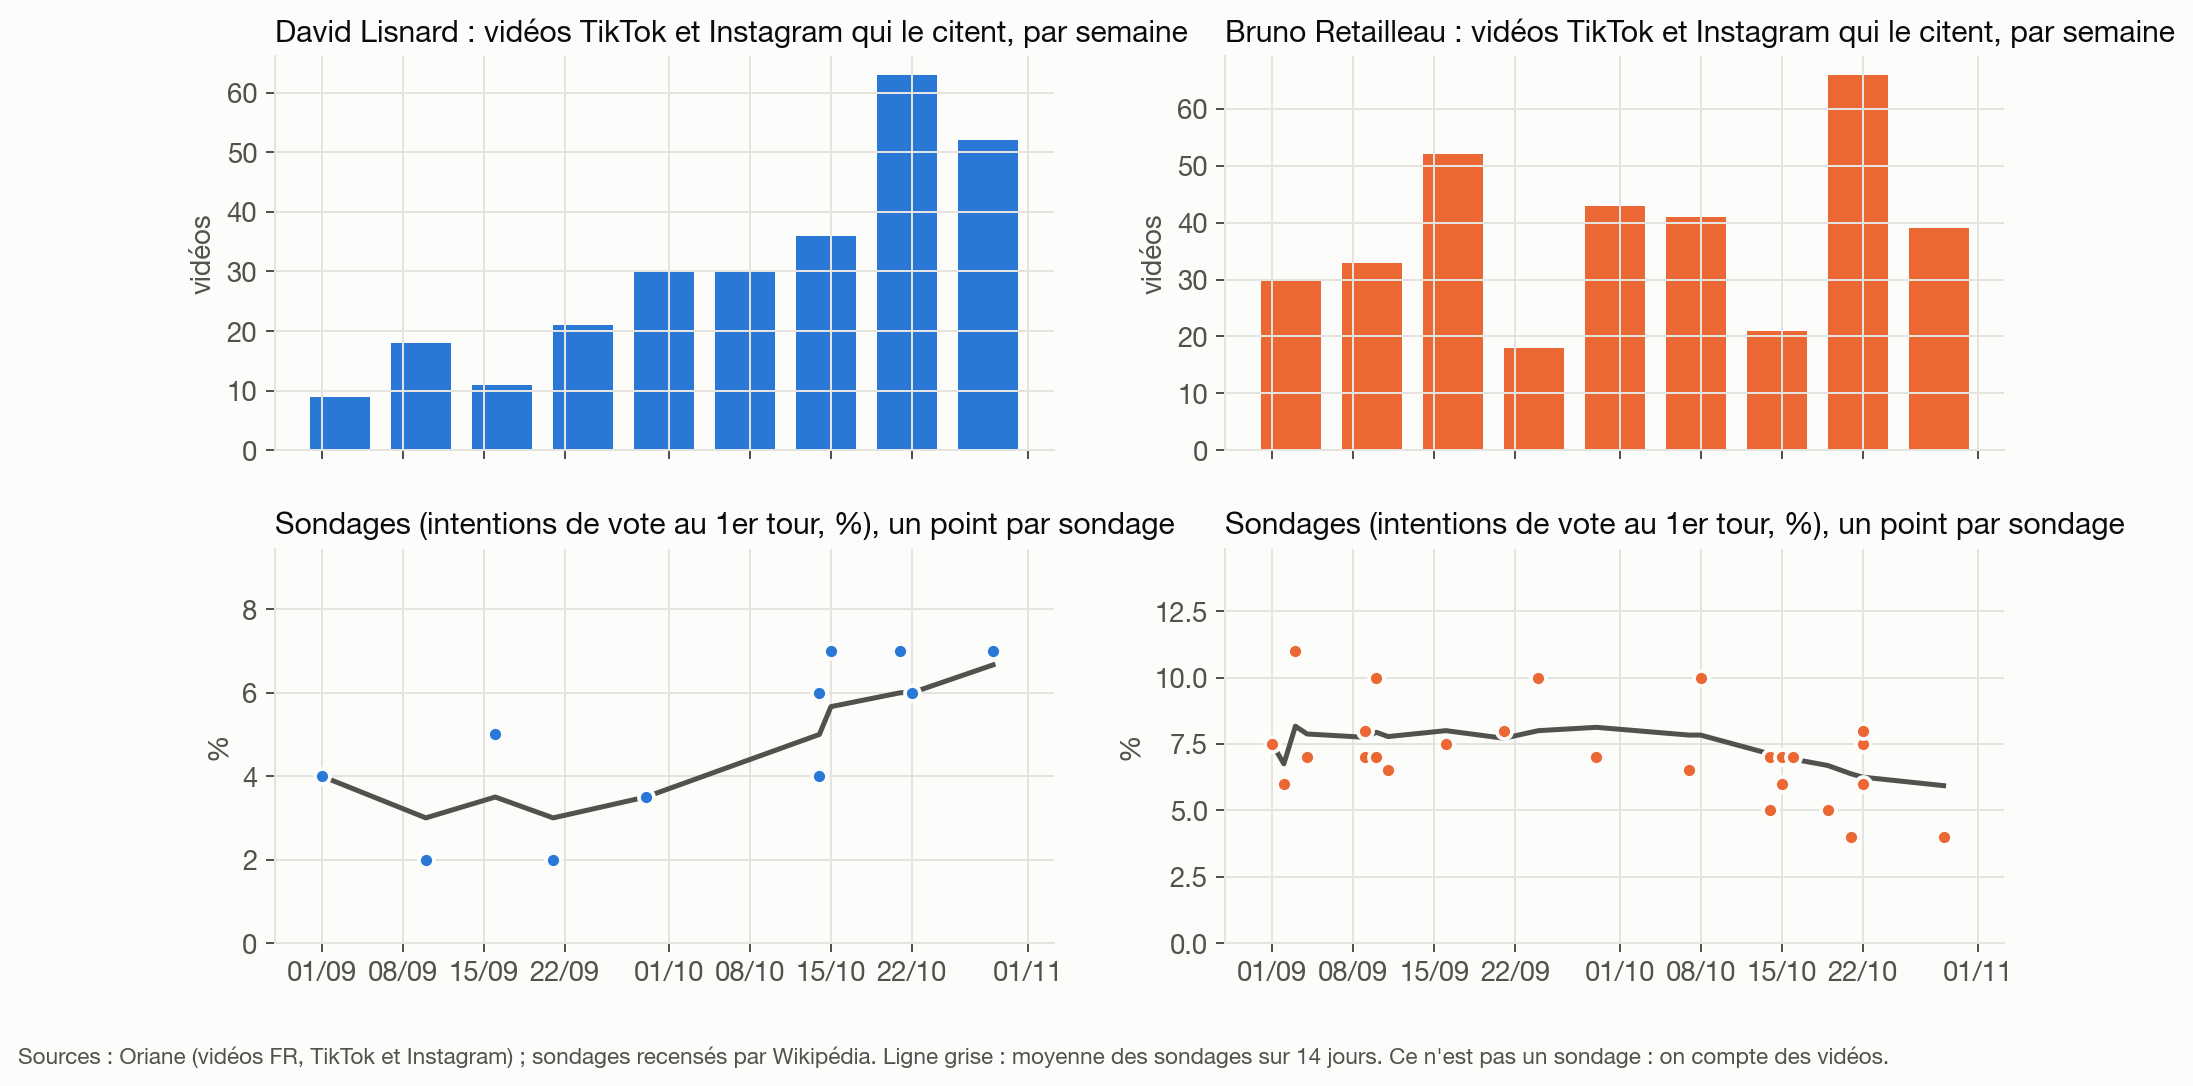
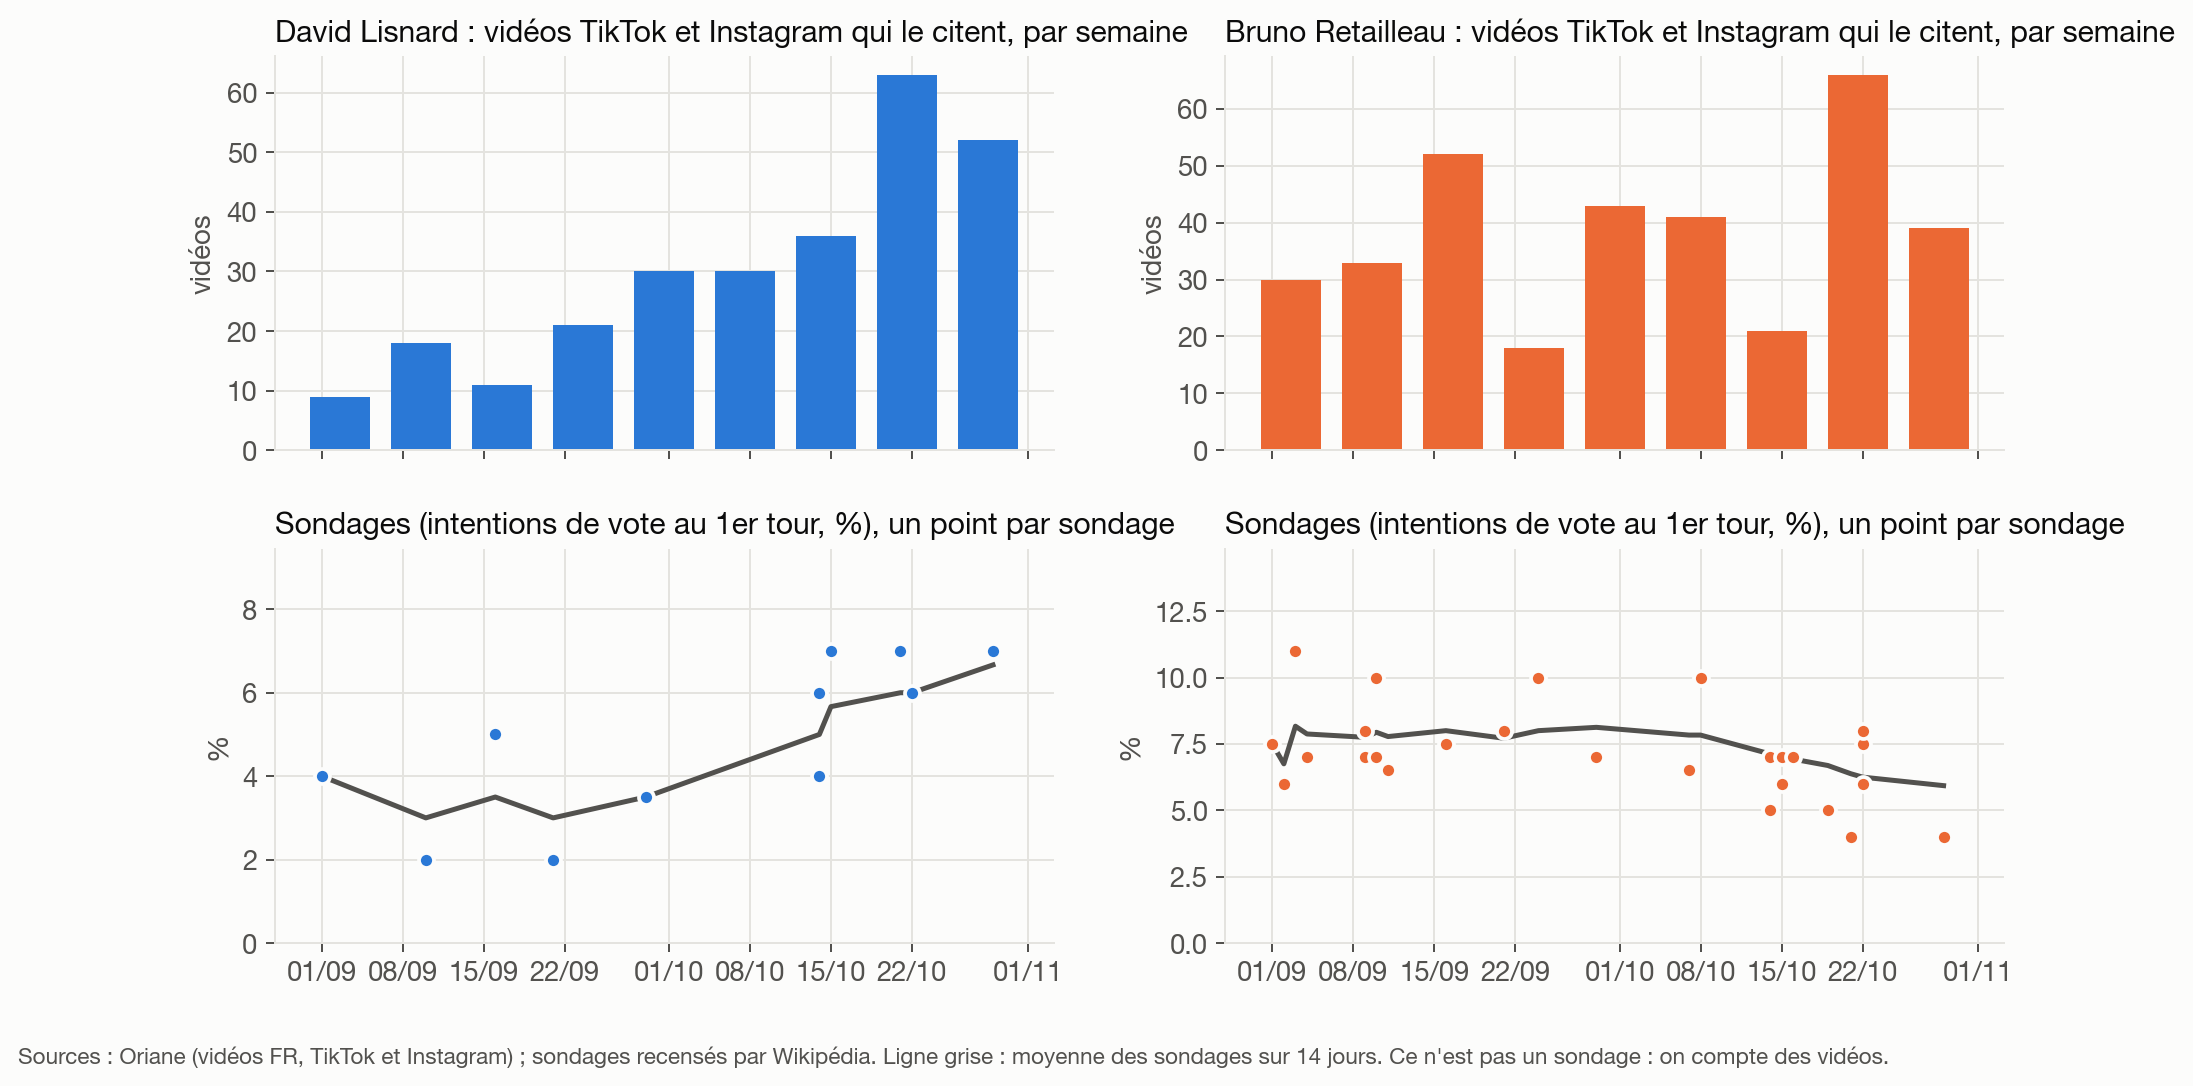
Graphiques : avance des vidéos sur les sondages, surexposition, camps (docs/visuels)

diff --git a/pipeline/htf/visuels.py b/pipeline/htf/visuels.py
@@ -7,6 +7,8 @@ import json
 from datetime import date, timedelta
 
 import matplotlib
+import matplotlib.dates
+import matplotlib.ticker
 
 matplotlib.use("Agg")
 import matplotlib.pyplot as plt  # noqa: E402
@@ -99,6 +101,11 @@ def exposure_chart() -> str | None:
     ax.set_yscale("log")
     ax.set_xlim(lo, hi)
     ax.set_ylim(lo, hi)
+    ticks = [t for t in (0.5, 1, 2, 5, 10, 20, 50) if lo <= t <= hi]
+    for axis in (ax.xaxis, ax.yaxis):
+        axis.set_major_locator(matplotlib.ticker.FixedLocator(ticks))
+        axis.set_major_formatter(matplotlib.ticker.FuncFormatter(lambda v, _: f"{v:g} %".replace(".", ",")))
+        axis.set_minor_formatter(matplotlib.ticker.NullFormatter())
     ax.set_xlabel("part dans les sondages (%, entre ces candidats)")
     ax.set_ylabel("part des vues des vidéos qui les citent (%)")
     ax.set_title("Au-dessus de la diagonale : on en parle plus qu'il ne pèse dans les sondages")
